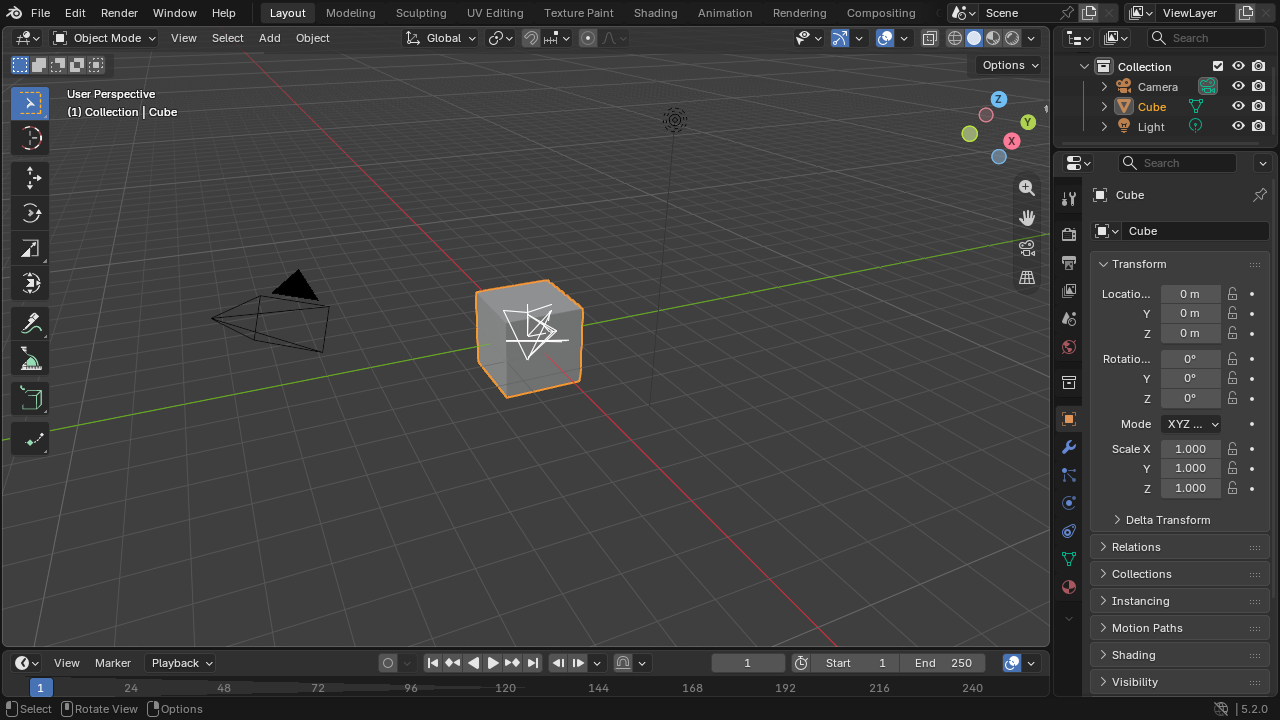
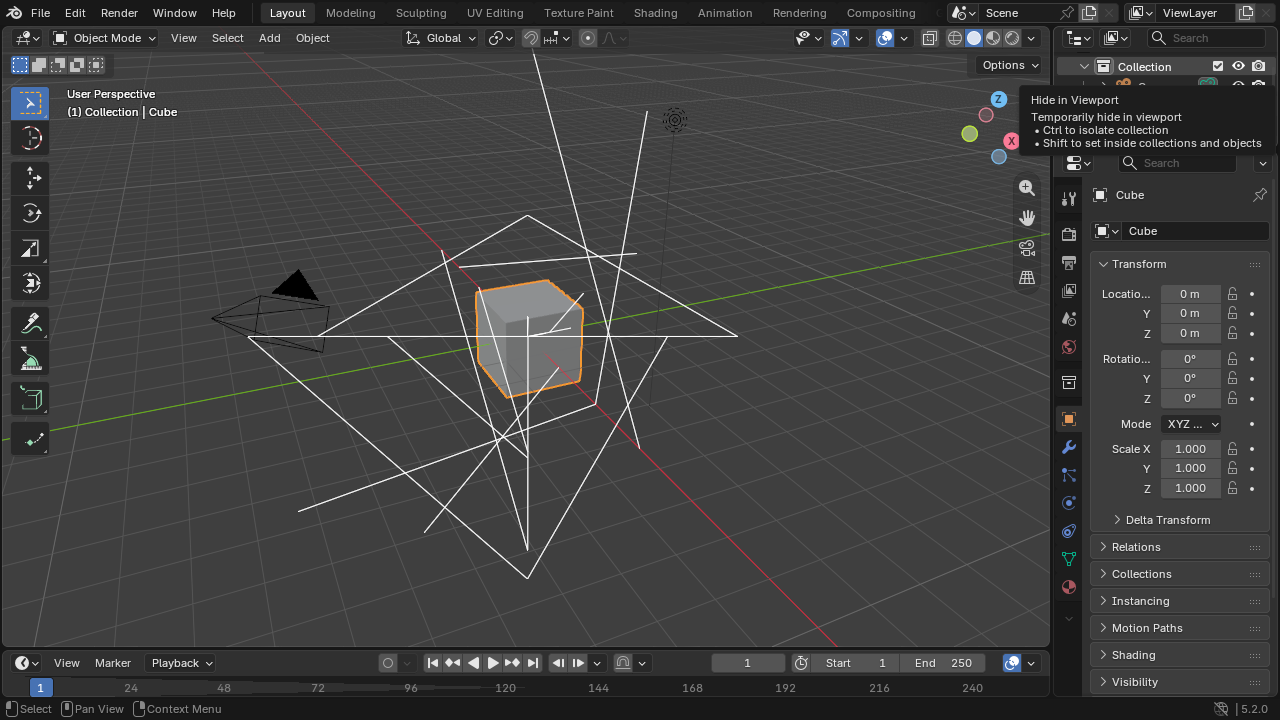
driver: verify recovered r51 cache and r53 readback lanes
Assisted-by: Claude (driver)

diff --git a/fix_plan.md b/fix_plan.md
@@ -584,11 +584,13 @@ splash decoder (imbuf). Evidence: platform_web/shell/evidence/viewport-recon-*.
     to with-input boots. The dead-tab window is the INLINE SHADER COMPILE blocking the WM
     worker (+1.0s to +17.4s, load-sensitive; frame 1 presents the instant it finishes).
     Capture rigs no longer need the mouse-nudge for correctness (keep it for older builds).
-  - [ ] **M4.T29/M8 boot-latency: shader-compile block [gpu]:** the real successor to P2#6.
-    ~16s WM-worker block in the workerless inline ShaderCompiler at first engine draw
-    (worse under load). Fix directions per the M3 architecture doc: OPFS shader-binary
-    cache (the planned Vulkan-disk-cache mirror) for warm boots + async/off-thread compile
-    for cold. Feeds the M8 30-second bar directly (staged loading is at 27.8s TTFP cold).
+  - [~] **M4.T29/M8 boot-latency: shader-compile block [gpu]: warm path fixed by r51/0128.**
+    The OPFS WGSL translation cache cuts retained clean zero-input first-UI timing from
+    ~16.3s cold to ~3.0s warm, with 101/101 cached shaders byte-identical and exact shaderc
+    v2025.4 plus Tint/Dawn 36cf1fae invalidation pins. Cache format v2 adds bounded payloads
+    and a checksum. Cold first draw still compiles inline on the WM worker; async/off-thread
+    translation or faithful lazy per-object engine loading remains the cold lever. Feeds the
+    M8 30-second bar directly (staged loading is at 27.8s TTFP cold).
   - P3 python (cattrs) follows separately.
 
 ## M6 — RENDER PARITY: pre-work COMPLETE (2026-08-06, both driver-verified)
